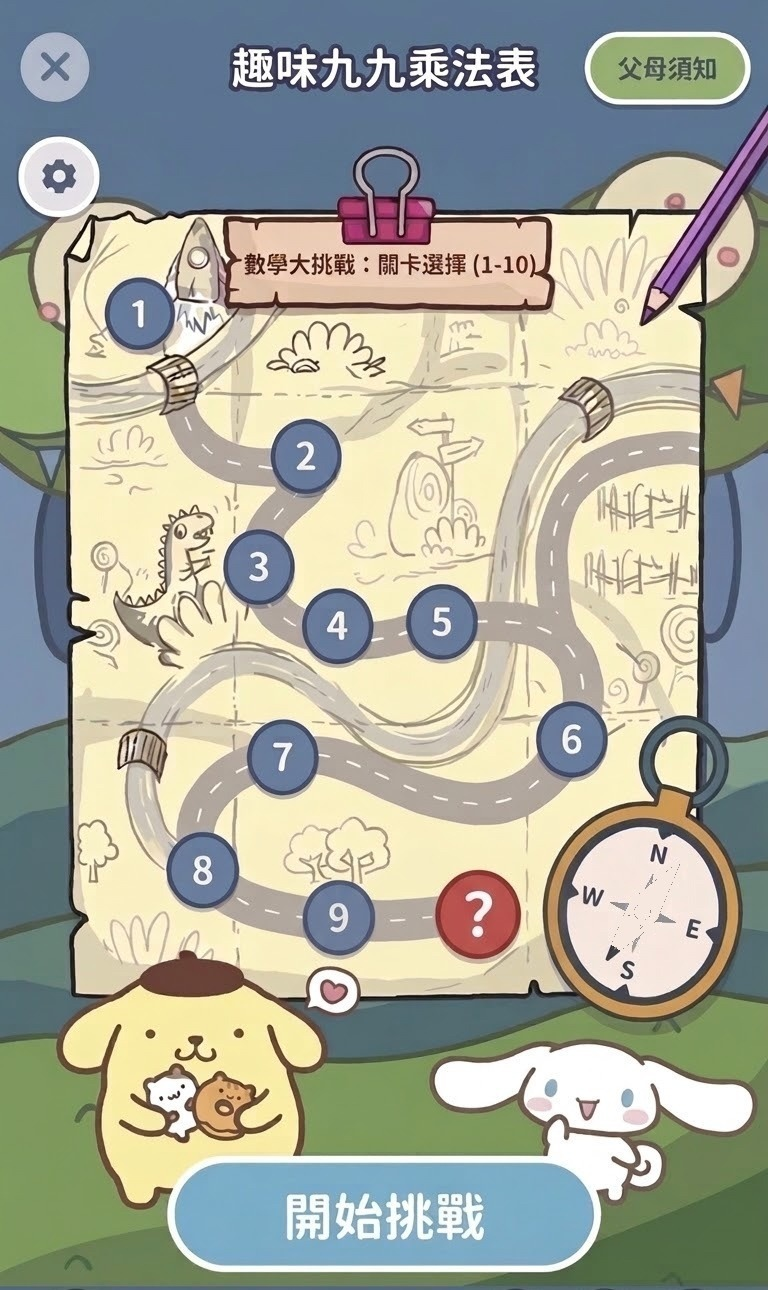
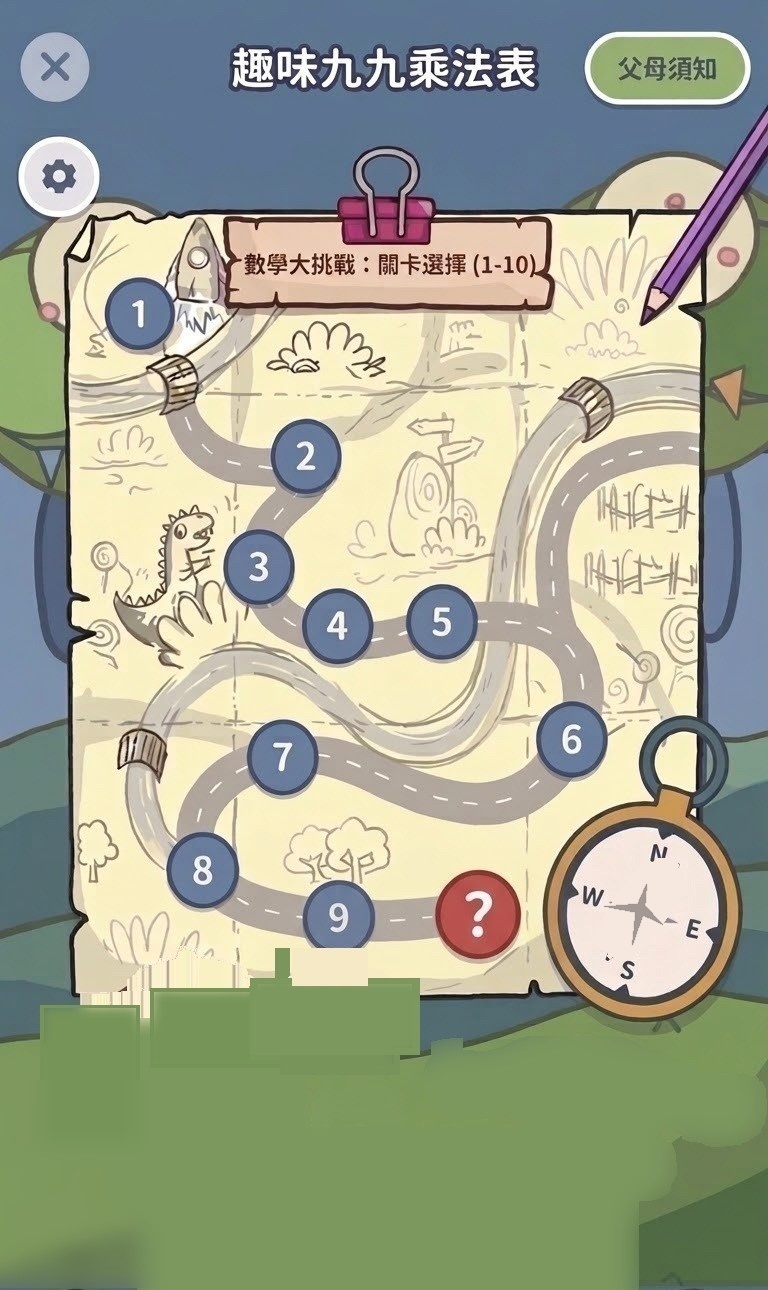
fix: 選關指南針底圖補齊，指針改成完整的
底圖清掉舊指針並補上盤面，避免轉動時露白。上層改成兩端相連的完整指針。

Changed region(s): [[0.0312, 0.7132, 1.0, 1.0], [0.7812, 0.6822, 0.875, 0.7442]]

diff --git a/index.html b/index.html
@@ -34,7 +34,7 @@
   <link rel="preload" as="image" href="assets/review-yellow.png">
   <link rel="preload" as="image" href="assets/review-white.png">
   <link rel="stylesheet" href="styles.css?v=4">
-  <link rel="stylesheet" href="game.css?v=16">
+  <link rel="stylesheet" href="game.css?v=18">
 </head>
 <body>
   <audio id="bgm" src="assets/bgm.mp3?v=3" loop preload="auto" autoplay playsinline></audio>
@@ -66,8 +66,8 @@
 
   <main class="stage select-page" id="view-select" hidden>
     <div class="shot">
-      <img class="shot-plate" src="assets/select-compass-base.jpg?v=1" alt="趣味九九乘法表關卡選擇">
-      <img class="map-needle" src="assets/select-needle.png?v=2" alt="" aria-hidden="true">
+      <img class="shot-plate" src="assets/select-compass-base.jpg?v=3" alt="趣味九九乘法表關卡選擇">
+      <img class="map-needle" src="assets/select-needle.png?v=4" alt="" aria-hidden="true">
 
       <button class="hit hit-x" id="map-back" type="button" aria-label="回主畫面"></button>
       <button class="hit hit-gear" id="map-settings" type="button" aria-label="設定"></button>

diff --git a/game.css b/game.css
@@ -24,9 +24,9 @@
 .map-needle {
   position: absolute;
   z-index: 6;
-  left: 76.82%;
-  top: 65.74%;
-  width: 14.32%;
+  left: 72.92%;
+  top: 64.19%;
+  width: 20.83%;
   height: auto;
   transform-origin: 50% 50%;
   pointer-events: none;

diff --git a/HANDOFF.md b/HANDOFF.md
@@ -36,7 +36,7 @@
 - 切主頁／選關／測驗時同一個元素繼續播，`currentTime` 不歸零。
 - 設定「音效」關掉就停，再開從原秒數接。
 - iPhone 第一次若被擋，點一下畫面會接上；接上之後換畫面不會再斷。
-- 快取：`styles.css?v=4`、`game.css?v=16`、`shell.js?v=3`、`app.js?v=4`、`select.js?v=3`、`play.js?v=13`、`table.js?v=2`。改檔要再加版本。
+- 快取：`styles.css?v=4`、`game.css?v=18`、`shell.js?v=3`、`app.js?v=4`、`select.js?v=3`、`play.js?v=13`、`table.js?v=2`。改檔要再加版本。
 
 ## 選關
 
@@ -44,7 +44,7 @@
 - 問號關 `data-n="mix"`：未選是圖上的紅球問號；選中變成粉紫金色特殊問號球，不是黃燈。
 - 熱區大約（相對 `.shot`）：9 在 44.2% / 70.8%，問號在 62.2% / 70.9%。
 - 高一點的手機底下多一截草地是原圖比例，不要再畫一層。
-- 選關地圖是靜態原圖。只有右下角指南針指針會轉：底圖 `select-compass-base.jpg` 沒有指針，`select-needle.png` 疊在上面繞中心轉。狗不要再做成浮動圖層，除非他再要求。
+- 選關地圖是靜態原圖。只有右下角指南針指針會轉：底圖 `select-compass-base.jpg?v=3` 已清掉指針並補上盤面，`select-needle.png?v=4` 是完整指針，繞中心轉。狗不要再做成浮動圖層，除非他再要求。
 
 ## 測驗（play.html / play.js）
 
